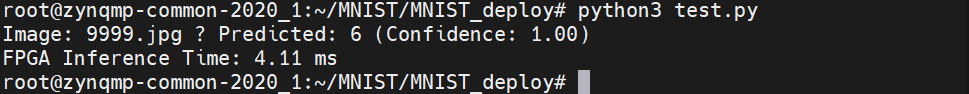
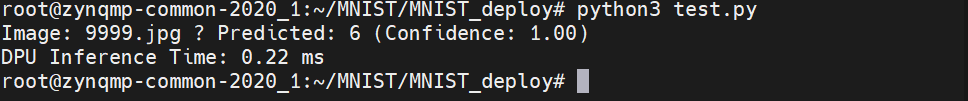
version1.1

Changed region(s): [[0.0, 0.0, 0.8058, 0.7021], [0.0, 0.6809, 0.6198, 1.0], [0.2789, 0.9787, 0.3099, 1.0]]

diff --git a/AXU2CGB/test.py b/AXU2CGB/test.py
@@ -49,22 +49,21 @@ def run_inference():
         input_len = n2cube.dpuGetInputTensorSize(task, INPUT_NODE)
         n2cube.dpuSetInputTensorInHWCFP32(task, INPUT_NODE, input_data, input_len)
 
-        start_time = time.process_time()
+        # Run task and get hardware DPU execution time
         n2cube.dpuRunTask(task)
-        end_time = time.process_time()
-        fpga_inference_time_ms = (end_time - start_time) * 1000
+        fpga_inference_time_us = n2cube.dpuGetTaskProfile(task)
+        fpga_inference_time_ms = fpga_inference_time_us / 1000.0
 
         output_size = n2cube.dpuGetOutputTensorSize(task, OUTPUT_NODE)
         output_data = n2cube.dpuGetOutputTensorInHWCFP32(task, OUTPUT_NODE, output_size)
 
-        # Apply softmax to convert logits to probabilities
+        # Apply softmax
         probabilities = softmax(output_data)
-
         prediction = int(np.argmax(probabilities))
         confidence = float(np.max(probabilities))
 
         print(f"Image: {os.path.basename(img_path)} ? Predicted: {prediction} (Confidence: {confidence:.2f})")
-        print(f"FPGA Inference Time: {fpga_inference_time_ms:.2f} ms")
+        print(f"DPU Inference Time: {fpga_inference_time_ms:.2f} ms")
 
         img_vis = cv2.imread(img_path)
         if img_vis is not None:
